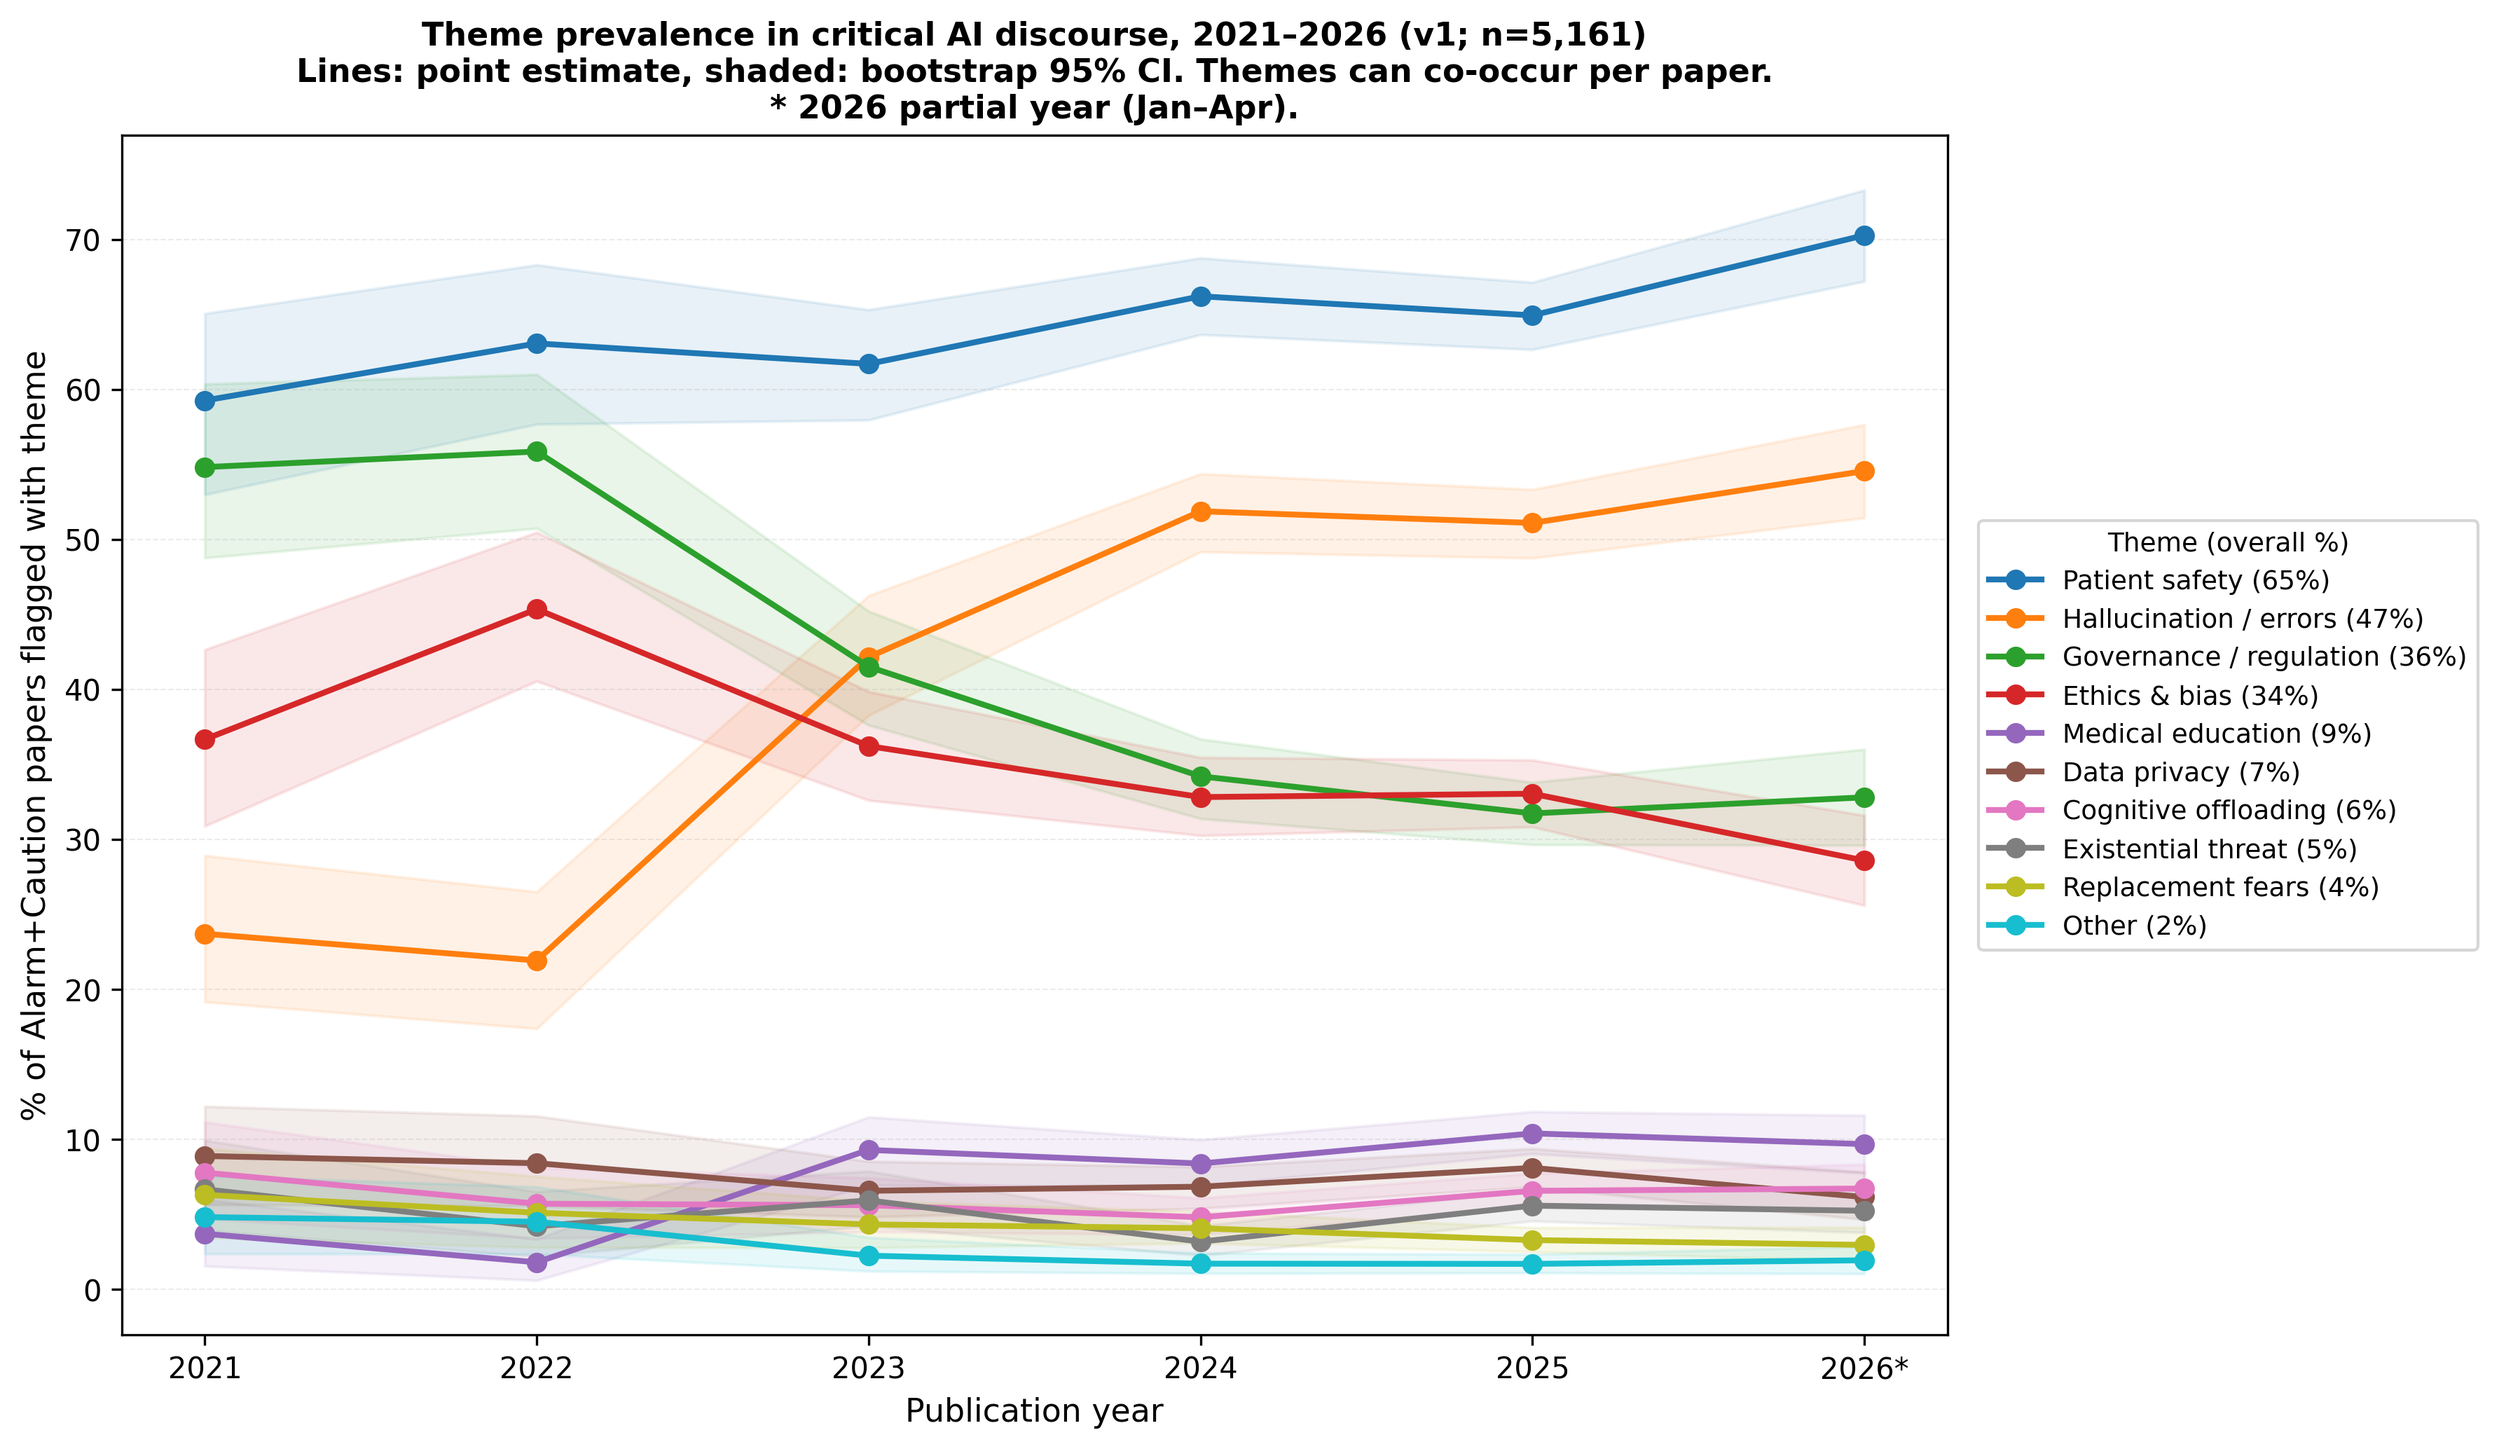
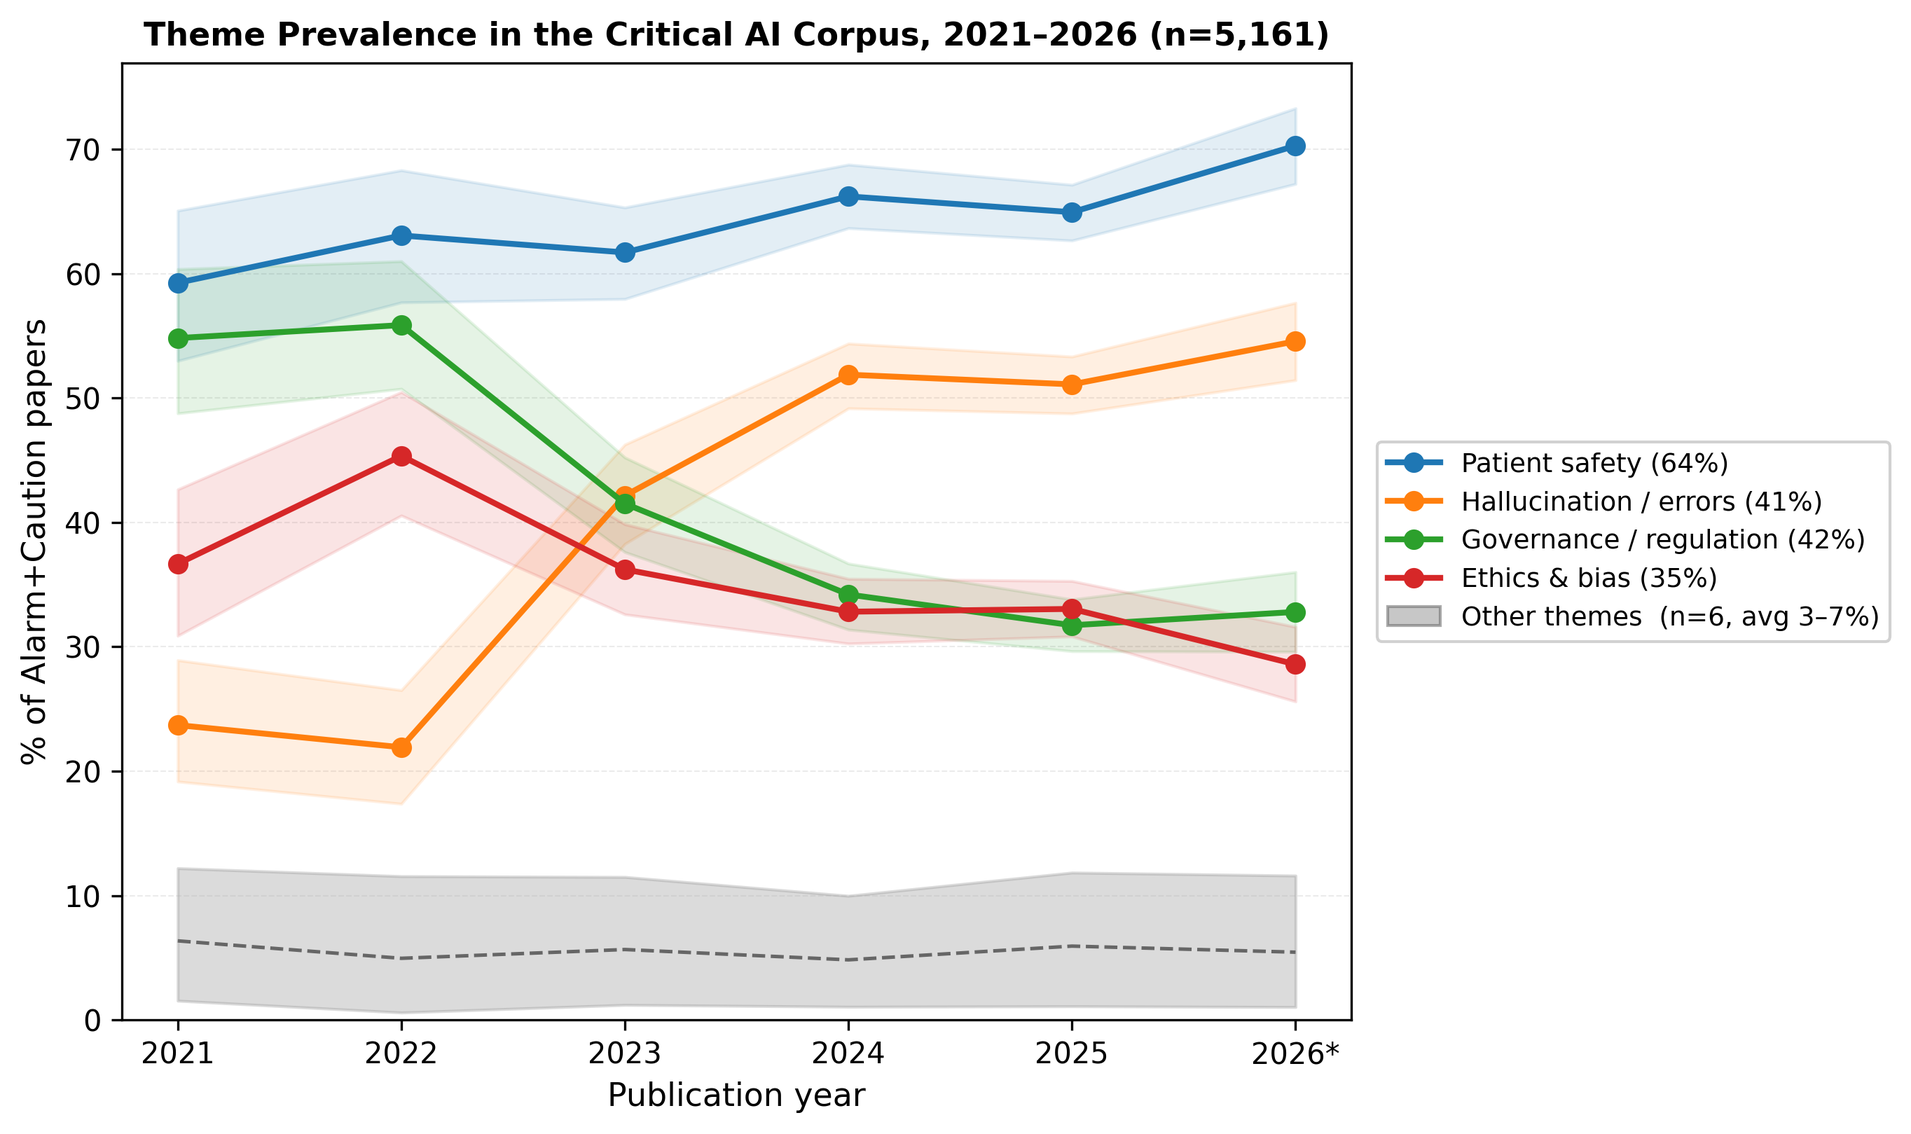
Revise theme_prevalence figures for publication
- Main figure: 4 focal themes (safety, hallucination, governance, ethics) as
  coloured lines; 6 minor themes collapsed into gray min-max ribbon with legend
  patch; legend moved outside right; title updated to JMIR style
- New supplementary figure: minor themes as individual lines with error bars
  (95% CI) instead of shaded bands

diff --git a/analysis/plot_theme_prevalence_v2.py b/analysis/plot_theme_prevalence_v2.py
@@ -1,0 +1,198 @@
+"""
+Revised theme_prevalence figure (v2 layout):
+  - Main figure: 4 focal themes as coloured lines + gray min-max ribbon for 6 minor themes
+  - Supplementary figure: 6 minor themes as individual coloured lines
+
+Reads pre-computed bootstrap CSV so no re-sampling needed.
+"""
+
+from __future__ import annotations
+
+from pathlib import Path
+
+import matplotlib
+matplotlib.use("Agg")
+import matplotlib.pyplot as plt
+import matplotlib.patches as mpatches
+import matplotlib.lines as mlines
+import numpy as np
+import pandas as pd
+
+WORKTREE = Path(__file__).resolve().parents[1]
+ANALYSES_DIR = WORKTREE / "output" / "analyses"
+FIGURES_DIR  = WORKTREE / "output" / "figures"
+
+YEARS = list(range(2021, 2027))
+
+FOCAL_THEMES = ["safety_clinical", "hallucination", "regulation", "ethics_bias"]
+FOCAL_LABELS = {
+    "safety_clinical": "Patient safety",
+    "hallucination":   "Hallucination / errors",
+    "regulation":      "Governance / regulation",
+    "ethics_bias":     "Ethics & bias",
+}
+# Distinct, colourblind-friendly colours for the 4 focal themes
+FOCAL_COLOURS = {
+    "safety_clinical": "#1f77b4",   # blue
+    "hallucination":   "#ff7f0e",   # orange
+    "regulation":      "#2ca02c",   # green
+    "ethics_bias":     "#d62728",   # red
+}
+
+MINOR_THEMES = ["education", "data_privacy", "cognitive", "existential", "replacement", "other"]
+MINOR_LABELS = {
+    "education":    "Medical education",
+    "data_privacy": "Data privacy",
+    "cognitive":    "Cognitive offloading",
+    "existential":  "Existential threat",
+    "replacement":  "Replacement fears",
+    "other":        "Other / uncategorised",
+}
+# Tab10 colours (positions 4–9) for the supplementary figure
+_tab10 = plt.cm.tab10(np.linspace(0, 1, 10))
+MINOR_COLOURS = {t: _tab10[4 + i] for i, t in enumerate(MINOR_THEMES)}
+
+GRAY_RIBBON   = "#999999"
+GRAY_LINE     = "#666666"
+
+
+def load_data() -> pd.DataFrame:
+    df = pd.read_csv(ANALYSES_DIR / "theme_prevalence_v1.csv")
+    df = df[df["pub_year"].isin(YEARS)]
+    return df
+
+
+def pivot(df: pd.DataFrame, col: str) -> pd.DataFrame:
+    return df.pivot(index="pub_year", columns="theme", values=col)
+
+
+# ── Main figure ────────────────────────────────────────────────────────────────
+
+def plot_main(df: pd.DataFrame) -> None:
+    pt  = pivot(df, "point")
+    lo  = pivot(df, "ci_lower")
+    hi  = pivot(df, "ci_upper")
+
+    # Overall % for legend labels (mean across years)
+    overall = pt.mean()
+
+    fig, ax = plt.subplots(figsize=(9, 5.5))
+
+    # ── Gray ribbon: min–max across minor themes per year ──────────────────
+    minor_lo  = lo[MINOR_THEMES].min(axis=1)
+    minor_hi  = hi[MINOR_THEMES].max(axis=1)
+    minor_mid = pt[MINOR_THEMES].mean(axis=1)   # centre line (dashed)
+
+    ax.fill_between(YEARS, minor_lo, minor_hi,
+                    color=GRAY_RIBBON, alpha=0.35, zorder=1, label="_nolegend_")
+    ax.plot(YEARS, minor_mid, color=GRAY_LINE, lw=1.2, ls="--",
+            zorder=2, label="_nolegend_")
+
+    # ── 4 focal coloured lines ─────────────────────────────────────────────
+    for t in FOCAL_THEMES:
+        c = FOCAL_COLOURS[t]
+        pct = overall[t]
+        ax.plot(YEARS, pt[t], marker="o", lw=2, color=c, zorder=3,
+                label=f"{FOCAL_LABELS[t]} ({pct:.0f}%)")
+        ax.fill_between(YEARS, lo[t], hi[t], color=c, alpha=0.12, zorder=2)
+
+    # ── Legend ─────────────────────────────────────────────────────────────
+    # Build custom handles: 4 coloured lines + 1 gray composite patch
+    line_handles = [
+        mlines.Line2D([], [], color=FOCAL_COLOURS[t], marker="o", lw=2,
+                      label=f"{FOCAL_LABELS[t]} ({overall[t]:.0f}%)")
+        for t in FOCAL_THEMES
+    ]
+
+    # Compute overall range of minor themes for the legend note
+    minor_overall_lo = pt[MINOR_THEMES].mean().min()
+    minor_overall_hi = pt[MINOR_THEMES].mean().max()
+    other_patch = mpatches.Patch(
+        facecolor=GRAY_RIBBON, alpha=0.55, edgecolor=GRAY_LINE, lw=1,
+        label=f"Other themes  (n=6, avg {minor_overall_lo:.0f}–{minor_overall_hi:.0f}%)"
+    )
+
+    # ── Axes ──────────────────────────────────────────────────────────────
+    ax.set_xticks(YEARS)
+    ax.set_xticklabels([str(y) if y != 2026 else "2026*" for y in YEARS], fontsize=10)
+    ax.set_xlabel("Publication year", fontsize=11)
+    ax.set_ylabel("% of Alarm+Caution papers", fontsize=11)
+    ax.set_ylim(bottom=0)
+    ax.set_title(
+        "Theme Prevalence in the Critical AI Corpus, 2021–2026 (n=5,161)",
+        fontsize=11, fontweight="bold",
+    )
+    ax.grid(axis="y", alpha=0.25, ls="--", lw=0.5)
+
+    leg = ax.legend(
+        handles=line_handles + [other_patch],
+        loc="center left",
+        bbox_to_anchor=(1.01, 0.5),
+        fontsize=9,
+        framealpha=0.9,
+        edgecolor="#cccccc",
+    )
+
+    fig.tight_layout()
+    fig.subplots_adjust(right=0.72)
+
+    out = FIGURES_DIR / "theme_prevalence.png"
+    fig.savefig(out, dpi=300, bbox_inches="tight", facecolor="white")
+    plt.close(fig)
+    print(f"Main figure → {out.relative_to(WORKTREE)}")
+
+
+# ── Supplementary figure ──────────────────────────────────────────────────────
+
+def plot_supplementary(df: pd.DataFrame) -> None:
+    pt  = pivot(df, "point")
+    lo  = pivot(df, "ci_lower")
+    hi  = pivot(df, "ci_upper")
+    overall = pt.mean()
+
+    fig, ax = plt.subplots(figsize=(9, 5.5))
+
+    for t in MINOR_THEMES:
+        c = MINOR_COLOURS[t]
+        yerr_lo = pt[t].values - lo[t].values
+        yerr_hi = hi[t].values - pt[t].values
+        ax.plot(YEARS, pt[t], marker="o", lw=2, color=c,
+                label=f"{MINOR_LABELS[t]} ({overall[t]:.0f}%)", zorder=3)
+        ax.errorbar(YEARS, pt[t], yerr=[yerr_lo, yerr_hi],
+                    fmt="none", color=c, capsize=3, lw=1, alpha=0.7, zorder=2)
+
+    ax.set_xticks(YEARS)
+    ax.set_xticklabels([str(y) if y != 2026 else "2026*" for y in YEARS], fontsize=10)
+    ax.set_xlabel("Publication year", fontsize=11)
+    ax.set_ylabel("% of Alarm+Caution papers", fontsize=11)
+    ax.set_ylim(bottom=0)
+    ax.set_title(
+        "Supplementary Figure — Minor Theme Prevalence in the Critical AI Corpus,\n"
+        "2021–2026 (n=5,161)",
+        fontsize=11, fontweight="bold",
+    )
+    ax.legend(
+        loc="center left",
+        bbox_to_anchor=(1.01, 0.5),
+        fontsize=9,
+        framealpha=0.9,
+        edgecolor="#cccccc",
+    )
+    ax.grid(axis="y", alpha=0.25, ls="--", lw=0.5)
+
+    fig.tight_layout()
+    fig.subplots_adjust(right=0.72)
+
+    out = FIGURES_DIR / "theme_prevalence_sup.png"
+    fig.savefig(out, dpi=300, bbox_inches="tight", facecolor="white")
+    plt.close(fig)
+    print(f"Supplementary figure → {out.relative_to(WORKTREE)}")
+
+
+# ── Entry point ───────────────────────────────────────────────────────────────
+
+if __name__ == "__main__":
+    df = load_data()
+    plot_main(df)
+    plot_supplementary(df)
+    print("Done.")
